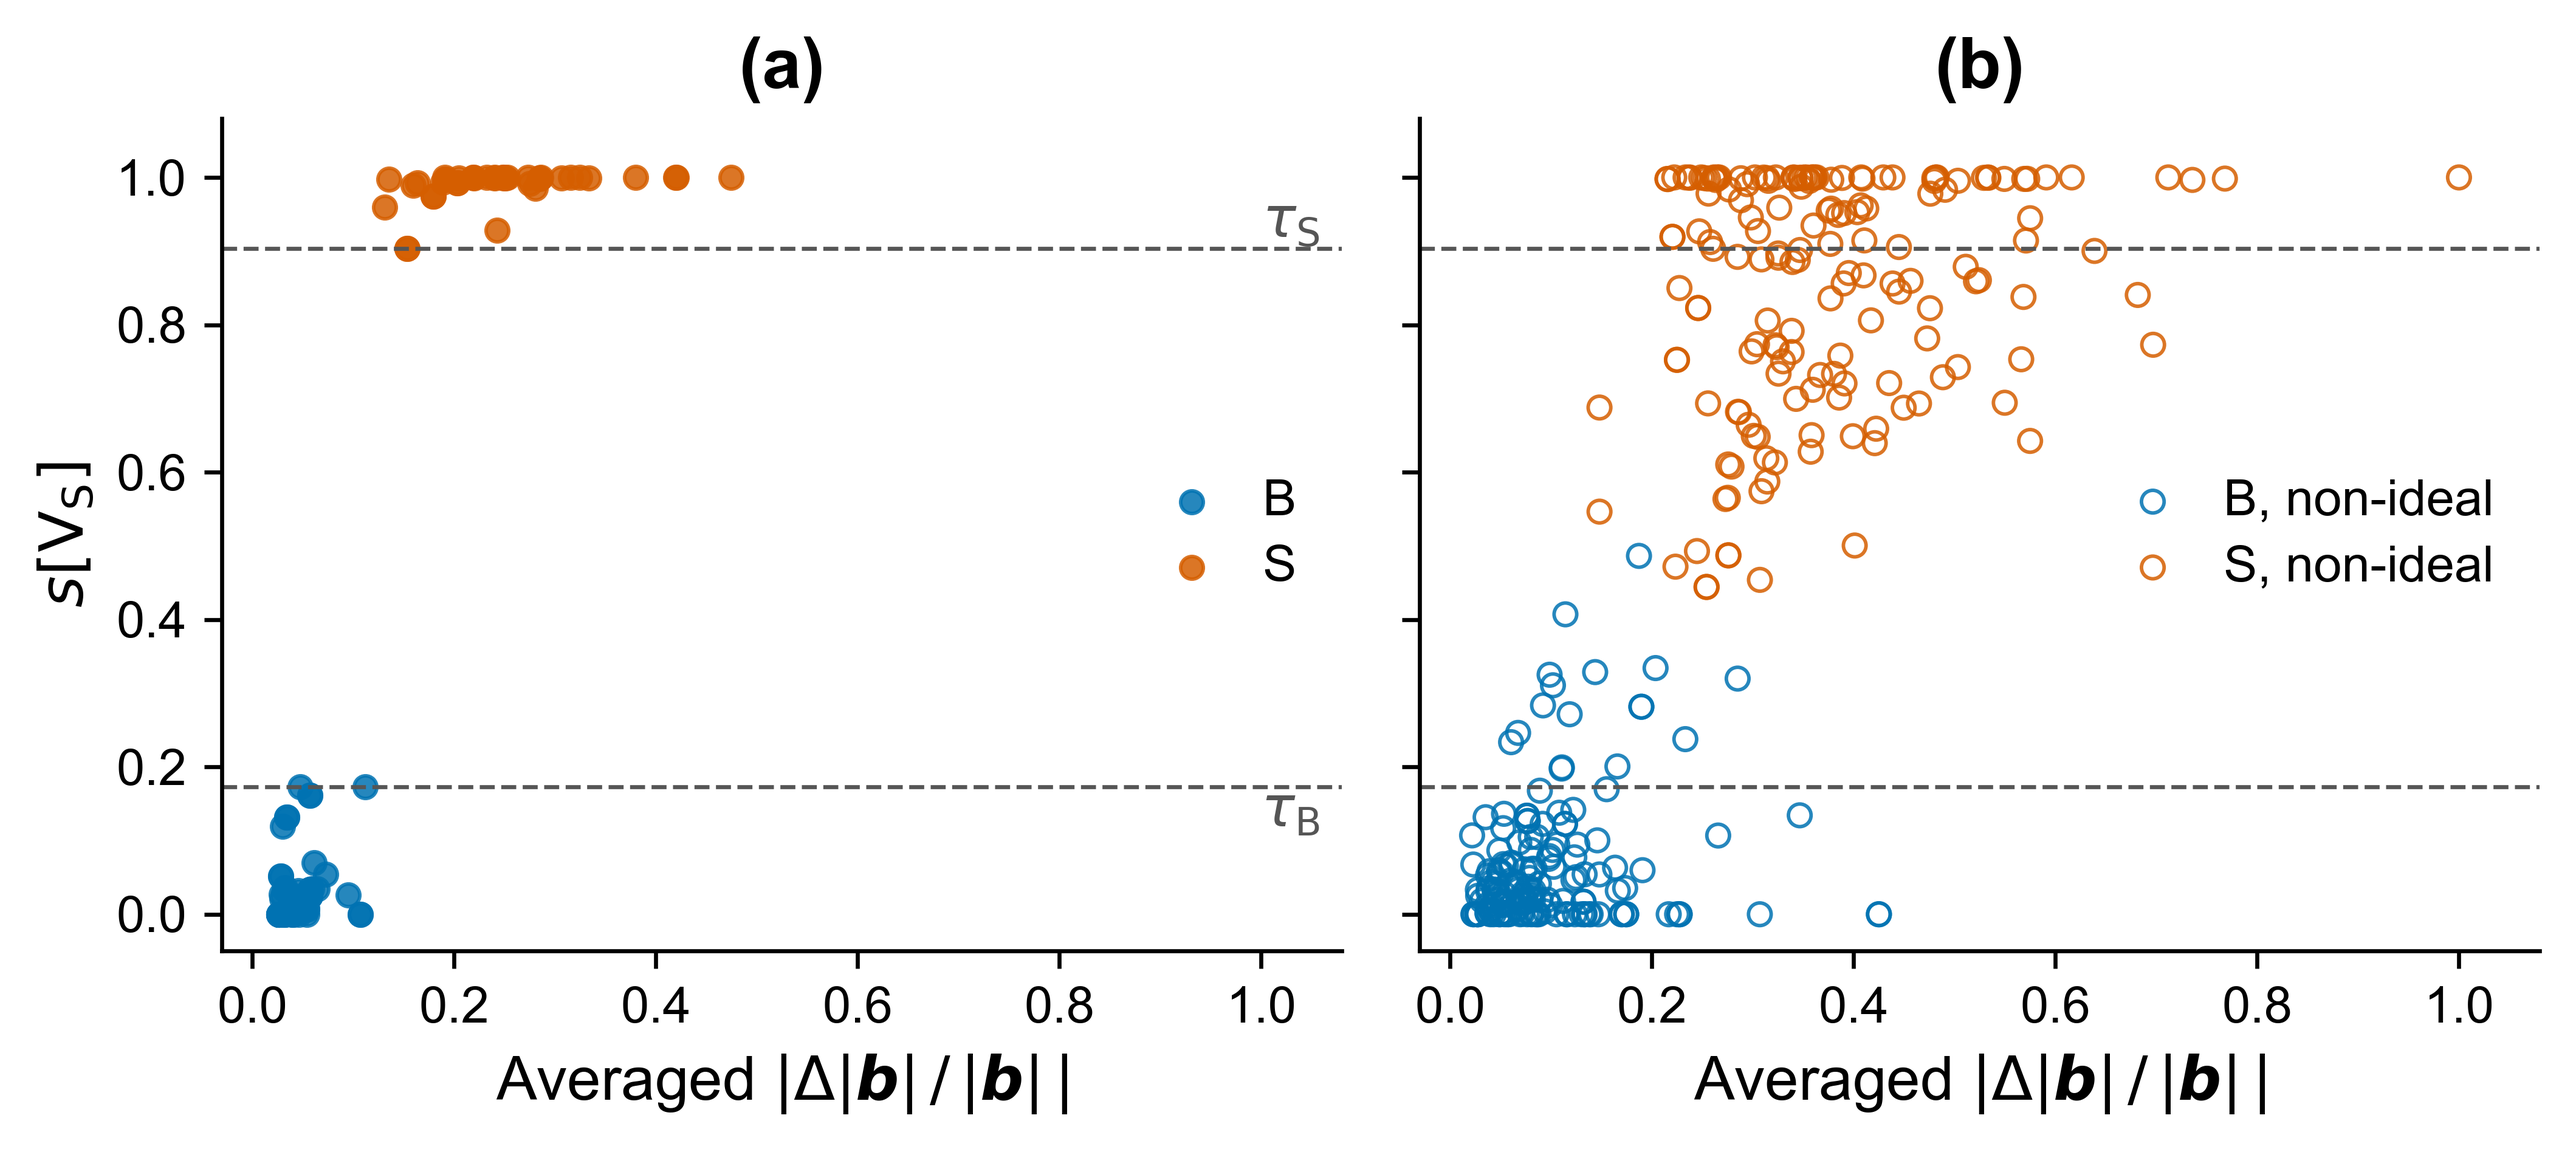
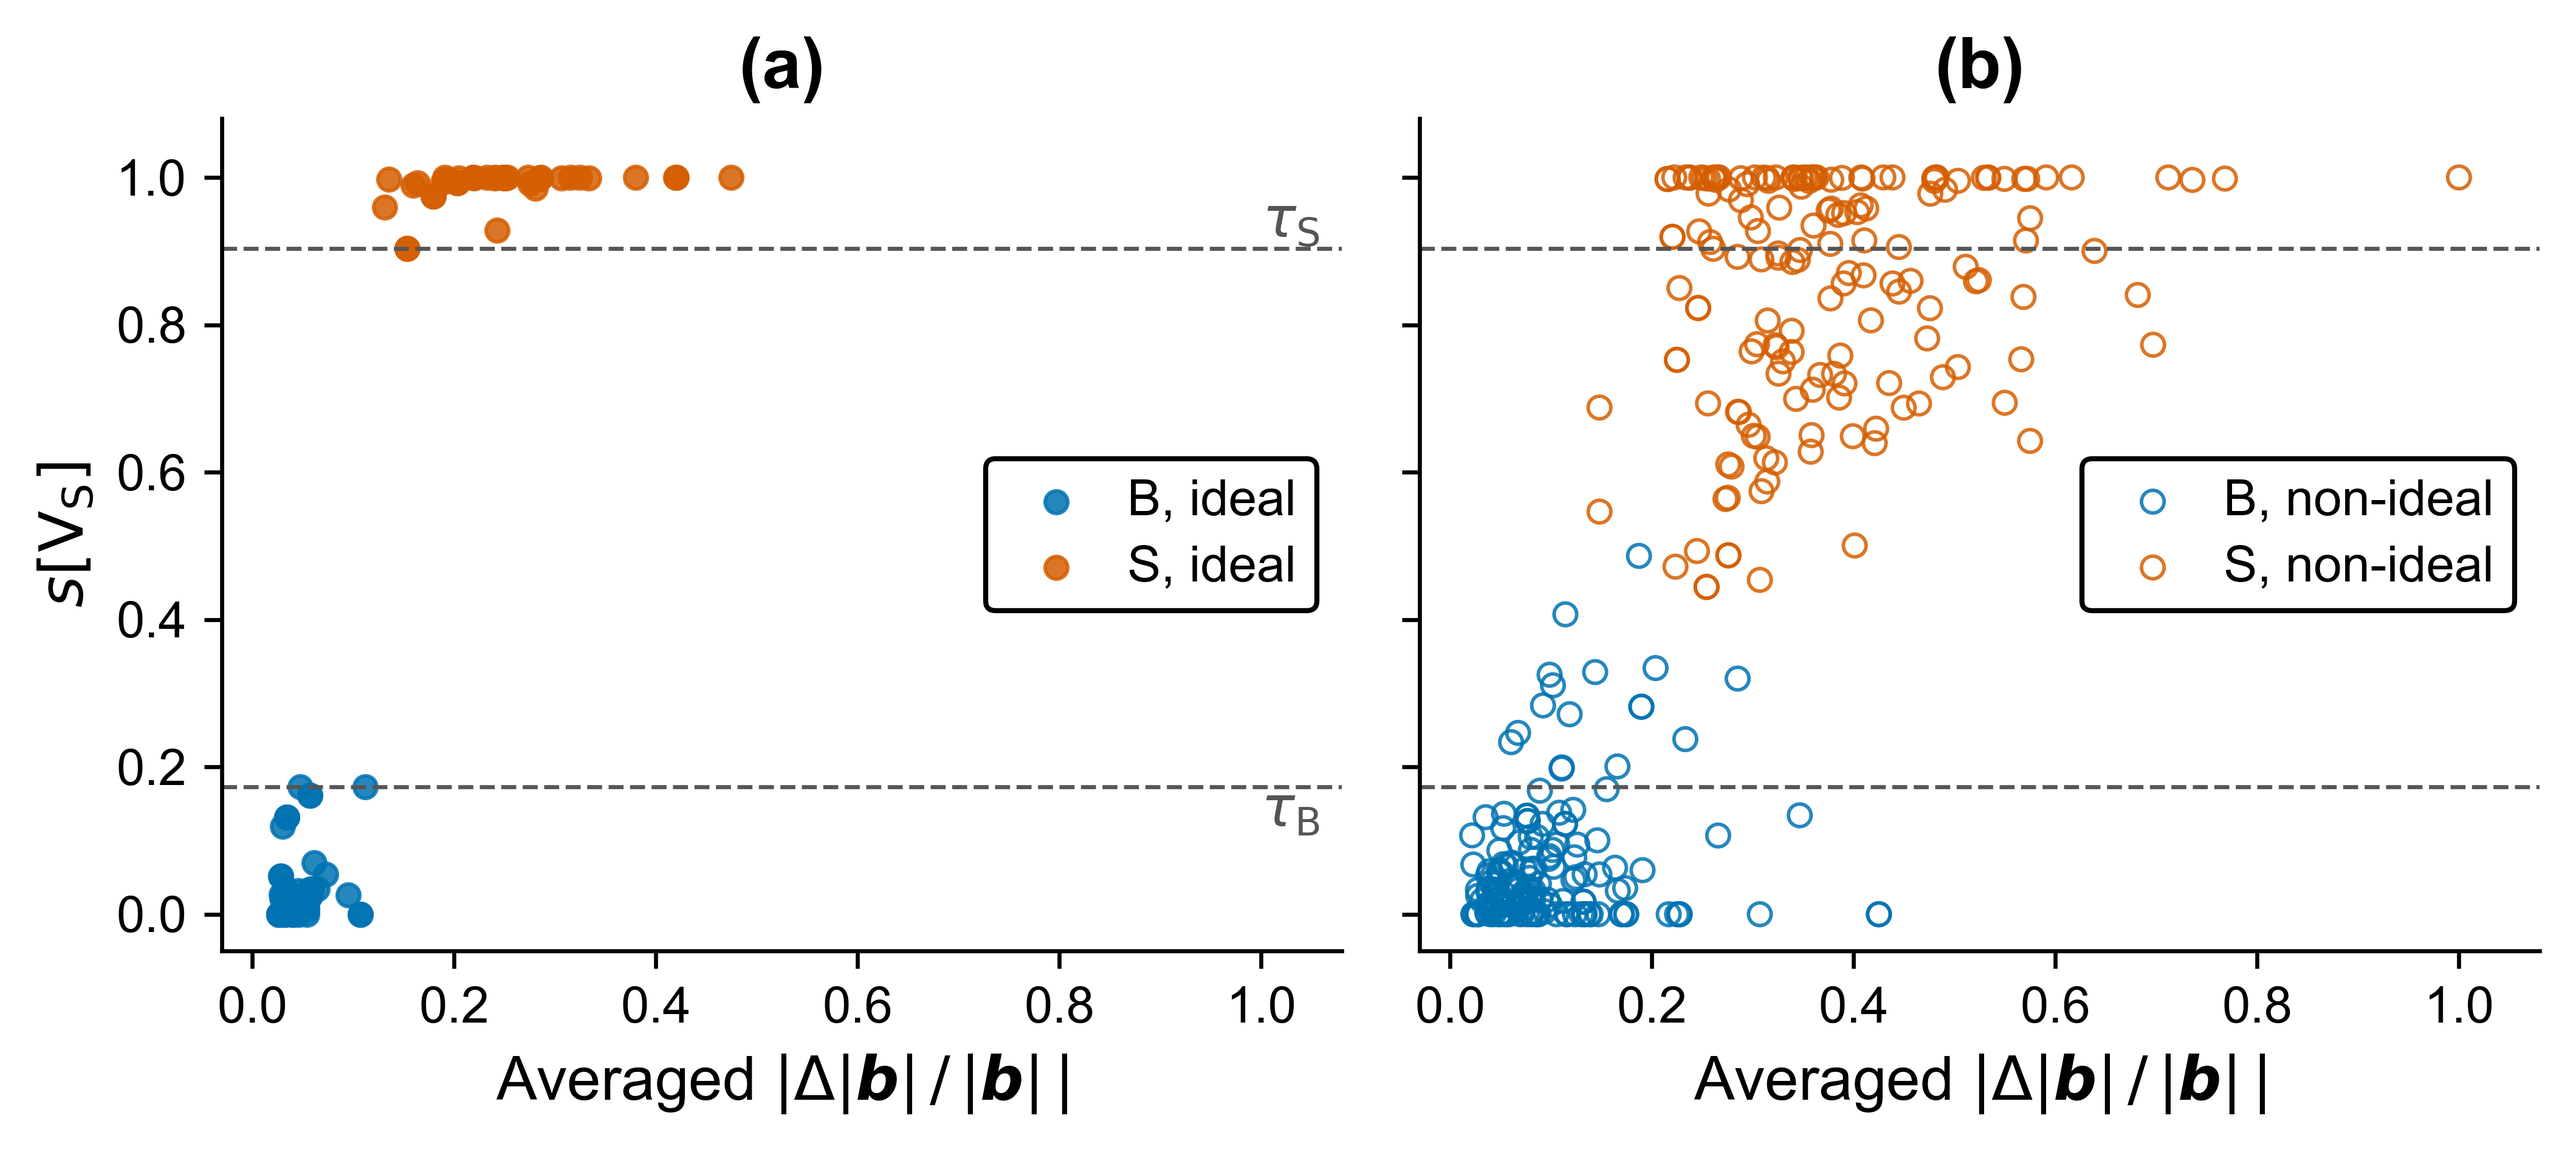
Label fig:modemixing (a) "B/S, ideal"; add borders to both legends
Panel (a)'s bare "B"/"S" labels now spell out "ideal" explicitly, matching
panel (b)'s "non-ideal" suffix. Both legends now render with a black-edged,
opaque white box (frameon=True) since they sit directly on top of scattered
data points and would otherwise be hard to tell apart from real markers.

diff --git a/src/figures.py b/src/figures.py
@@ -1847,11 +1847,11 @@ def plot_mode_mixing(
             if sub.empty:
                 continue
             kw = _marker_kwargs(cat, ideal_flag, marker="o", color_map=REF_CATEGORY_COLOR)
-            # Panel (b)'s hollow markers get an explicit "non-ideal" suffix
-            # (2026-07-23, author request) since, unlike panel (a), it has no
-            # legend of its own yet to disambiguate the unfilled circles from
-            # panel (a)'s filled ones.
-            point_label = CATEGORY_LABEL[cat] if ideal_flag == "yes" else f"{CATEGORY_LABEL[cat]}, non-ideal"
+            # Each panel's own point label spells out ideal/non-ideal
+            # explicitly (2026-07-23, author request) rather than leaving it
+            # to be inferred from the panel letter alone.
+            ideal_suffix = "ideal" if ideal_flag == "yes" else "non-ideal"
+            point_label = f"{CATEGORY_LABEL[cat]}, {ideal_suffix}"
             ax.scatter(sub["delta_b_mean"], sub["V_Stretch"], s=20,
                        label=point_label, **kw)
         ax.axhline(th.tau_S, color=COLORS["threshold"], ls="--", lw=0.8, zorder=1)
@@ -1862,9 +1862,16 @@ def plot_mode_mixing(
 
     ax_i.set_ylabel(r"$s[\mathrm{V_S}]$")
     ax_i.set_ylim(-0.05, 1.08)
-    ax_i.legend(loc="center right", frameon=False,
+    # Bordered legends (2026-07-23, author request): both panels' legend
+    # boxes sit directly on top of scattered data points, so a frame (plus an
+    # opaque white face) is needed to keep the swatches/text from reading as
+    # more data -- every OTHER legend in this module stays frameon=False
+    # since none of them overlap data the same way.
+    ax_i.legend(loc="center right", frameon=True, edgecolor="black",
+                facecolor="white", framealpha=1.0,
                 handletextpad=0.4, labelspacing=0.4)
-    ax_n.legend(loc="center right", frameon=False,
+    ax_n.legend(loc="center right", frameon=True, edgecolor="black",
+                facecolor="white", framealpha=1.0,
                 handletextpad=0.4, labelspacing=0.4)
     ax_i.text(0.98, th.tau_S, r"$\tau_\text{S}$", ha="right", va="bottom",
               color=COLORS["threshold"], transform=ax_i.get_yaxis_transform())
